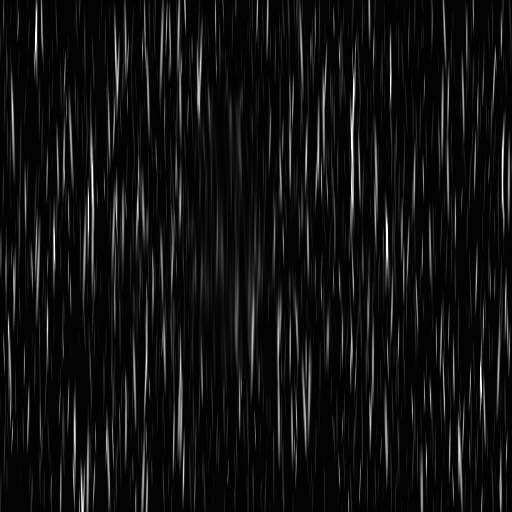
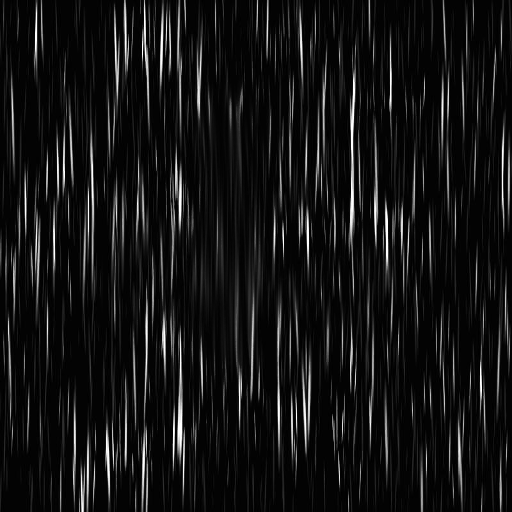
fixed water fixed moving

diff --git a/src/sprites/lily/lilySpawner.js b/src/sprites/lily/lilySpawner.js
@@ -84,6 +84,7 @@ export default class LilySpawner extends Phaser.GameObjects.GameObject {
 
     if (guessedLilyIndex !== -1) {
       this.lilies[guessedLilyIndex].tweenMove.stop();
+      this.lilies[guessedLilyIndex].spriteText.setVisible(false);
       this.lilies[guessedLilyIndex].textObject.setText("");
       this.lilies[guessedLilyIndex].textObjectForSign.setText("");
       this.lilies[guessedLilyIndex].sprite.anims.play({
@@ -105,6 +106,7 @@ export default class LilySpawner extends Phaser.GameObjects.GameObject {
     const lily = this.lilies[this.currentLiliesCount];
     lily.SetStatus(true, EXAMPLES[this.currentExample].answer);
     lily.x = randInt;
+    lily.spriteText.setVisible(true);
     lily.textObject.setText(`${EXAMPLES[this.currentExample].number1}\n${EXAMPLES[this.currentExample].number2}`);
     lily.textObjectForSign.setText(EXAMPLES[this.currentExample].sign).setPosition(-lily.textObject.width, 0);
     this.currentLiliesCount += 1;
@@ -112,6 +114,8 @@ export default class LilySpawner extends Phaser.GameObjects.GameObject {
       key: "wave",
       frameRate: Phaser.Math.Between(2, 5),
     });
+
+    lily.UpdateExampleTexture();
     lily.tweenMove = this.scene.tweens.add({
       targets: lily,
       y: LILY_BONDARY_LIMIT,
@@ -119,6 +123,7 @@ export default class LilySpawner extends Phaser.GameObjects.GameObject {
       ease: "Linear",
       onComplete: () => {
         LilySpawner.notGuessedCount++;
+        lily.spriteText.setVisible(false);
         lily.textObject.setText("");
         lily.textObjectForSign.setText("");
         lily.sprite.anims.stop();

diff --git a/src/sprites/lily/lilyContainer.js b/src/sprites/lily/lilyContainer.js
@@ -12,13 +12,26 @@ export default class lilyContainer extends Phaser.GameObjects.Container {
 
     this.sprite = scene.add.sprite(0, 0, "", "").disableInteractive();
     this.add(this.sprite);
-    this.textObject = scene.add.text(0, 0, "", {}).disableInteractive();
-    this.add(this.textObject);
-    this.textObjectForSign = scene.add.text(0, 0, "", {}).disableInteractive();
-    this.add(this.textObjectForSign);
+    this.textObject = scene.add.text(0, 0, "", {}).disableInteractive().setOrigin(1, 0.5).setVisible(false);
+    // this.add(this.textObject);
+    this.textObjectForSign = scene.add.text(0, 0, "", {}).disableInteractive().setOrigin(1, 0.5).setVisible(false);
+    // this.add(this.textObjectForSign);
 
     this.canMove = false;
     this.answer = null;
+
+    this.rt = this.scene.add.renderTexture(400, 300, 128, 128).setVisible(false);
+    this.rt.saveTexture("spriteText");
+    this.spriteText = this.scene.add.sprite(0, 0, "spriteText");
+    this.add(this.spriteText);
+  }
+
+  UpdateExampleTexture() {
+    this.rt.clear();
+    this.rt.beginDraw();
+    this.rt.batchDraw(this.textObject, 64 + 23, 64);
+    this.rt.batchDraw(this.textObjectForSign, 64 - 32, 64);
+    this.rt.endDraw();
   }
 
   SetStatus(status, answer) {

diff --git a/src/assets/shaders/cartoonWater.glsl.js b/src/assets/shaders/cartoonWater.glsl.js
@@ -41,13 +41,13 @@ void main( void ) {
 
   float speed2 = 7.0;
   float timeScale2 = time * speed2;
-  float cc2  = 0.55*texture2D( iChannel1, 1.8*0.02*pos.xy - 0.007*timeScale2*vec2( 0.0, 1.0) ).x;
-  cc2 += 0.35*texture2D( iChannel1, 1.8*0.04*pos.xy - 0.011*timeScale2*vec2( -0.15, 1.0) ).x;
-  cc2 += 0.10*texture2D( iChannel1, 1.8*0.08*pos.xy + 0.014*timeScale2*vec2( 0.15, 1.0) ).x;
-  cc2 = 0.6*(1.0-smoothstep( 0.0, 0.0025, abs(cc2-1.0))) +
-  0.4*(1.0-smoothstep( 0.0, 0.150, abs(cc2-0.4)));
+  float cc2  = 0.35*texture2D( iChannel1, 1.8*0.02*pos.xy - 0.007*timeScale2*vec2( 0.0, 1.0) ).x;
+  cc2 += 0.15*texture2D( iChannel1, 1.8*0.04*pos.xy - 0.011*timeScale2*vec2( -0.15, 1.0) ).x;
+  cc2 += 0.05*texture2D( iChannel1, 1.8*0.08*pos.xy + 0.014*timeScale2*vec2( 0.15, 1.0) ).x;
+  cc2 = 0.6*(1.0-smoothstep( 0.0, 0.025, abs(cc2-0.4))) +
+  0.4*(1.0-smoothstep( 0.0, 0.15, abs(cc2-0.4)));
 
   vec3 col2 = vec3(1.0) * cc2;
 
-  gl_FragColor = max(clamp(vec4(col2, cc2), 0.0, 0.25), vec4(col, max(col.r, max(col.g, col.b))));
+  gl_FragColor = max(clamp(vec4(col2, cc2), 0.0, 0.75), vec4(col, max(col.r, max(col.g, col.b))));
 }
